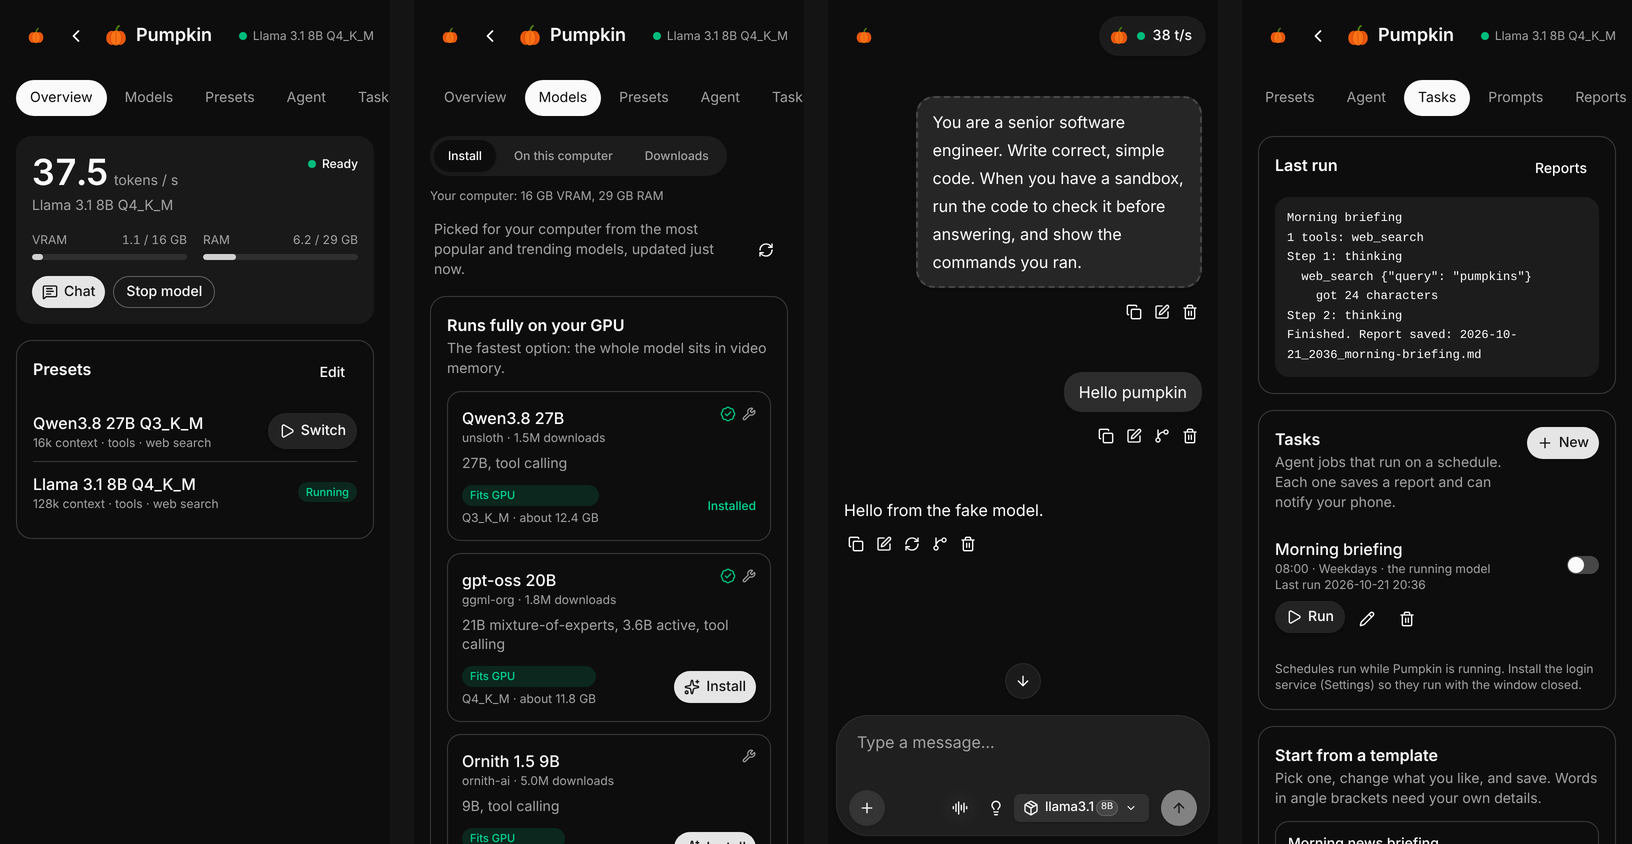
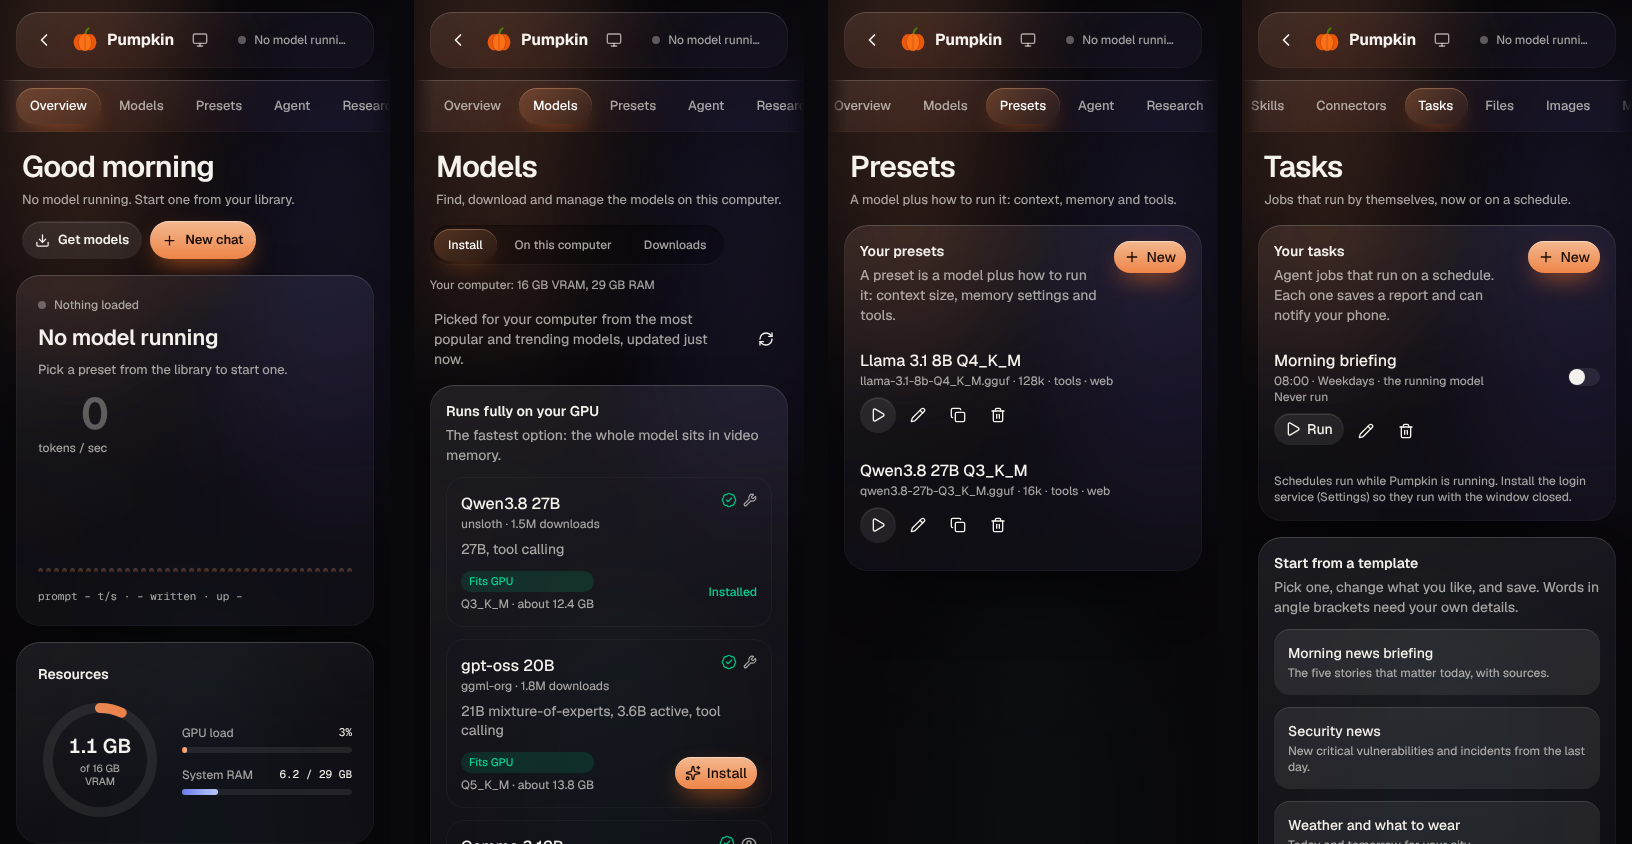
README: new screenshots of the 0.12 look

diff --git a/tests/fake_hf.py b/tests/fake_hf.py
@@ -6,16 +6,18 @@ import sys
 import tempfile
 import time
 from http.server import BaseHTTPRequestHandler, ThreadingHTTPServer
+from urllib.parse import parse_qs, unquote, urlparse
+
+sys.path.insert(0, os.path.dirname(os.path.abspath(__file__)))
+import fixtures  # noqa: E402
+
+
 class _Quick(ThreadingHTTPServer):
     def server_bind(self):                       # no full-name lookup while binding (it hangs on macOS 15)
         import socketserver
         socketserver.TCPServer.server_bind(self)
         self.server_name, self.server_port = self.server_address[:2]
 
-from urllib.parse import parse_qs, unquote, urlparse
-
-sys.path.insert(0, os.path.dirname(os.path.abspath(__file__)))
-import fixtures  # noqa: E402
 
 TMP = tempfile.mkdtemp()
 QUANTS = {"Q3_K_M": 0.43, "Q4_K_M": 0.55, "UD-Q4_K_XL": 0.58, "Q5_K_M": 0.65, "Q6_K": 0.78, "Q8_0": 1.0}

diff --git a/README.md b/README.md
@@ -115,11 +115,11 @@ The [guide](docs/GUIDE.md) explains every feature and how to use it.
 
 The chat is the llama.cpp web UI you may already know, with Pumpkin's pages added on top.
 
-<p align="center"><img src="docs/models-desktop.png" alt="Models page on a desktop" width="900"></p>
+<p align="center"><img src="docs/overview-desktop.png" alt="The Overview page: the running model, resources, your presets and a setup checklist" width="900"></p>
 
-<p align="center"><img src="docs/setup-desktop.png" alt="First run: Pumpkin finds models from LM Studio and Ollama" width="440"> <img src="docs/switch-model-desktop.png" alt="Switching models from the chat" width="440"></p>
+<p align="center"><img src="docs/models-desktop.png" alt="Models page: models picked for your computer, one click to install" width="440"> <img src="docs/presets-desktop.png" alt="Presets: a model plus how to run it" width="440"></p>
 
-<p align="center"><img src="docs/tasks-desktop.png" alt="Task templates" width="440"> <img src="docs/settings-desktop.png" alt="Updates and privacy" width="440"></p>
+<p align="center"><img src="docs/tasks-desktop.png" alt="Tasks that run on a schedule, with templates" width="440"> <img src="docs/agent-desktop.png" alt="Personas and limits for the agent" width="440"></p>
 
 ## Install
 
